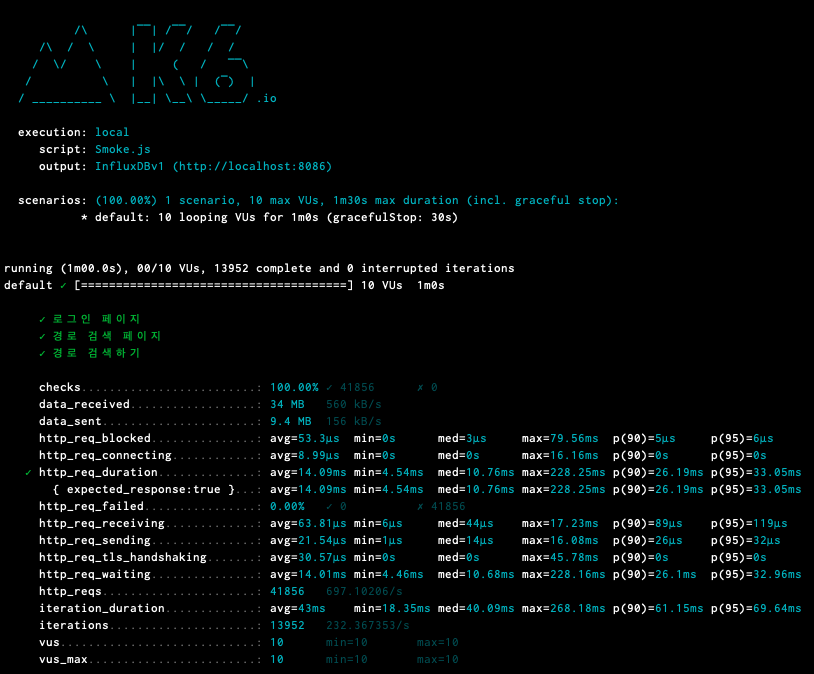
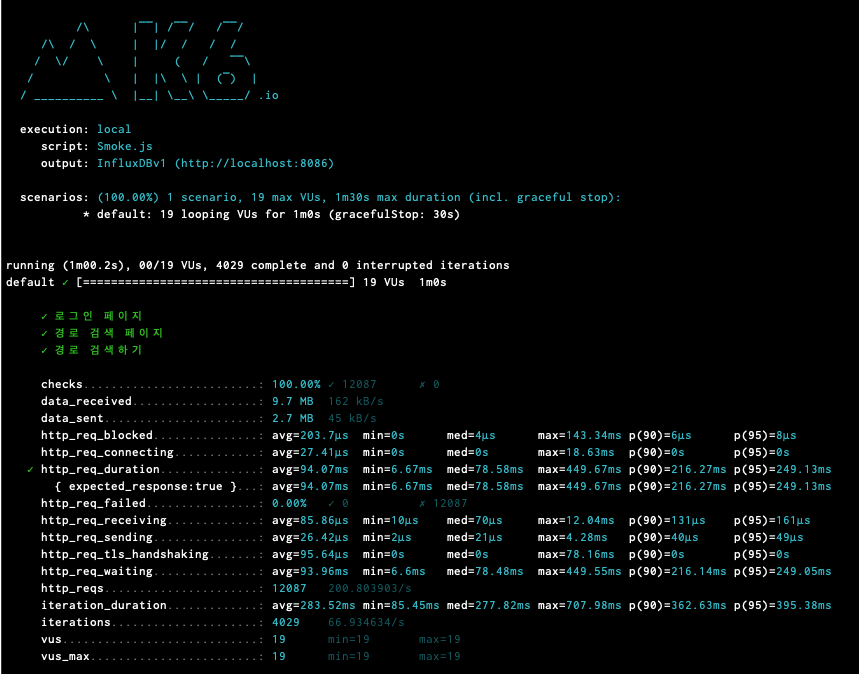
fix: 리뷰 피드백에 따른 테스트 수정

diff --git a/k6/stress/Stress.js b/k6/stress/Stress.js
@@ -1,21 +1,21 @@
-// # stress.js
+// # Stress.js
 import http from 'k6/http';
 import { check, group, sleep, fail } from 'k6';
 
 export let options = {
   stages: [
     { duration: '30s', target: 5 },
-    { duration: '1m', target: 10 },
+    { duration: '1m', target: 30 },
+    { duration: '1m', target: 60 },
+    { duration: '1m', target: 120 },
+    { duration: '2m', target: 240 },
+    { duration: '1m', target: 120 },
     { duration: '1m', target: 40 },
-    { duration: '2m', target: 70 },
-    { duration: '2m', target: 100 },
-    { duration: '2m', target: 70 },
-    { duration: '1m', target: 40 },
     { duration: '1m', target: 10 },
-    { duration: '30s', target: 5 },
+    { duration: '10s', target: 0 },
   ],
   thresholds: {
-    http_req_duration: ['p(99)<200'], // 99% of requests must complete below 1.5s
+    http_req_duration: ['p(99)<300'],
   },
 };
 
@@ -23,7 +23,7 @@ const BASE_URL = 'https://sawooook-webservice.p-e.kr';
 const USERNAME = 'test@naver.com';
 const PASSWORD = 'test1234';
 
-export default function ()  {
+export default function () {
 
   const payload = JSON.stringify({
     email: USERNAME,
@@ -35,7 +35,6 @@ export default function ()  {
       'Content-Type': 'application/json',
     },
   };
-
 
   // 로그인
   const loginRes = http.post(`${BASE_URL}/login/token`, payload, params);
@@ -59,6 +58,7 @@ export default function ()  {
       Authorization: `Bearer ${loginRes.json('accessToken')}`,
     },
   };
+
 
   let findPathResponse = http.get(`${BASE_URL}/paths?source=5&target=8`, authHeaders);
 

diff --git a/k6/smoke/Smoke.js b/k6/smoke/Smoke.js
@@ -1,13 +1,13 @@
 // # smoke.js
 import http from 'k6/http';
-import { check, group, sleep, fail } from 'k6';
+import {check} from 'k6';
 
 export let options = {
-  vus: 10, // 1 user looping for 1 minute
+  vus: 19,
   duration: '60s',
 
   thresholds: {
-    http_req_duration: ['p(99)<200'], // 99% of requests must complete below 1.5s
+    http_req_duration: ['p(99)<300'],
   },
 };
 
@@ -16,7 +16,7 @@ const BASE_URL = 'https://sawooook-webservice.p-e.kr';
 const USERNAME = 'test@naver.com';
 const PASSWORD = 'test1234';
 
-export default function ()  {
+export default function () {
 
   const payload = JSON.stringify({
     email: USERNAME,
@@ -28,7 +28,6 @@ export default function ()  {
       'Content-Type': 'application/json',
     },
   };
-
 
   // 로그인
   const loginRes = http.post(`${BASE_URL}/login/token`, payload, params);
@@ -52,6 +51,7 @@ export default function ()  {
       Authorization: `Bearer ${loginRes.json('accessToken')}`,
     },
   };
+
 
   let findPathResponse = http.get(`${BASE_URL}/paths?source=5&target=8`, authHeaders);
 

diff --git a/k6/load/Load.js b/k6/load/Load.js
@@ -1,17 +1,17 @@
-// # stress.js
+// # Stress.js
 import http from 'k6/http';
 import { check, group, sleep, fail } from 'k6';
 
 export let options = {
   stages: [
-    { duration: '1m', target: 3 },
-    { duration: '1m', target: 5 },
-    { duration: '1m', target: 10 },
-    { duration: '1m', target: 5 },
-    { duration: '1m', target: 3 },
+    { duration: '30s', target: 6 },
+    { duration: '1m', target: 13 },
+    { duration: '3m', target: 19 },
+    { duration: '1m', target: 13 },
+    { duration: '10s', target: 0 },
   ],
   thresholds: {
-    http_req_duration: ['p(99)<200'], // 99% of requests must complete below 1.5s
+    http_req_duration: ['p(99)<300'],
   },
 };
 

diff --git a/README.md b/README.md
@@ -128,24 +128,32 @@ npm run dev
 
 ( https://insfiler.com/detail/rt_transit_time-0002?category=life 지하철 승객수 비교 이용 )
 
-4. 1명당 1일 평균 요청 수
-+ (출근 시간 + 퇴근 시간) * (메인 -> 로그인 -> 경로검색)
-> (1 + 1) * 3 = 6번
+4. 1명당 1일 평균 접속 수
++ (출근 시간 + 퇴근 시간) = 2번
 
 5. Throughput 계산
-+ (1일 총 접속 수) : 600,000 * 6 = 36,000,000
-+ (1일평균 RPS) : 1,200,000 / 86,400 = 약 14rps
-+ (1일 최대 RPS) : 14 * (170,000/80,000) = 약 30rps
+
+```
+Throughput 게산 공식
+
+(1일 총 접속 수) = 1일 사용자 수(DAU) x 1명당 1일 평균 접속 수 
+(1일  평균 rps) = 1일 총 접속 수 / 86,400 (초/일)
+(1일  최대 rps) = 1일 평균 rps x (최대 트래픽 / 평소 트래픽)
+```
+
++ 1,200,000 = 600,000 * 2 (1일 총 접속자 수)
++ 14rps = 1,200,000 / 86,400 (1일 평균 rps)
++ 30rps = 14 * (170,000/80,000) = 약 30rps (1일 최대 rps)
 
 6. VUser 구하기
 + R : 3 (메인 -> 로그인 -> 경로검색)
 + http_req_duration : 0.3
 > T : (3 * 0.3) + 1s = 1.9   
-> VUser = (30 * 1.9) / 6 = 약 10   (목표 RPS는 1일 최대 RPS로 가정)
+> VUser = (30 * 1.9) / 3 = 약 19   (목표 RPS는 1일 최대 RPS로 가정)
 
 
 ### 최종 목표값
-1. latency: 100ms
+1. latency: 300ms
 2. throughput : 14 ~ 30rps
 
 
